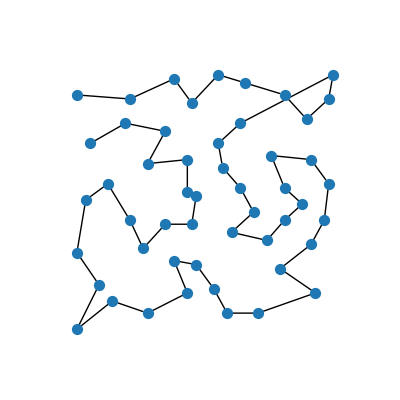
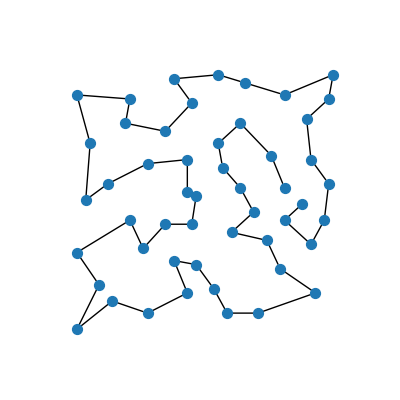
best 430 final

diff --git a/tsp_ant.py b/tsp_ant.py
@@ -5,9 +5,15 @@ import random
 
 # η -> heuristic of some means ( 1 / δ )  (weight)
 
+def get(mean, std):
+    x = random.gauss(mu=mean, sigma=std)
+    if x > 0:
+        return x
+    return get(mean, std)
+
 
 class TSPAnt:
-    def __init__(self, id, source, model, init_pheromone, q_0=0.8, alpha=1.0, beta=5.0) -> None:
+    def __init__(self, id, source, model, init_pheromone, q_0=0.9, alpha=1.0, beta=5.0) -> None:
         self.id = id
         self.source = source
         self.visited = [source]
@@ -15,8 +21,8 @@ class TSPAnt:
         self.current = source
         self.distance = 0
         self.model = model
-        self.alpha = alpha
-        self.beta = beta
+        self.alpha = get(1, 1)
+        self.beta = get(5, 1)
         self.init_pheromone = init_pheromone
         self.q_0 = q_0
 

diff --git a/run.py b/run.py
@@ -12,12 +12,12 @@ try:
         positions[int(id - 1)] = [x, y]
         nodes += 1
 
-    g = TSPGraph(2, 2)  # generate random
+    g = TSPGraph(2, 2)              # generate random
     g.parse_file(nodes, positions)  # parse actual
 
     best_distance = float("inf")
     best_route = []
-    for i in range(2000):
+    for i in range(3000):
         g.run()
         if g.best_distance < best_distance:
             best_distance = g.best_distance
@@ -30,7 +30,7 @@ try:
     print(f"Final: {best_distance}")
     print(best_route)
     g.shortest_plot()
-    g.progress_plot()  # progress still has variance. Learning or not?
+    g.progress_plot()
     g.best_plot()
     g.draw_graph()
 
